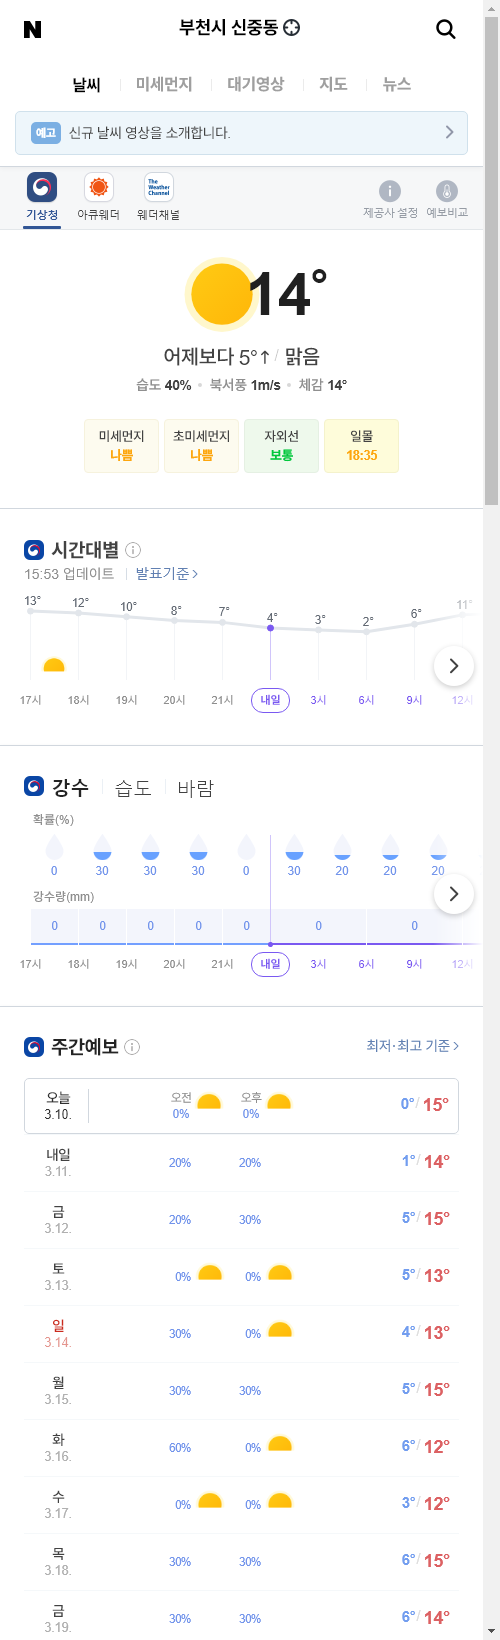
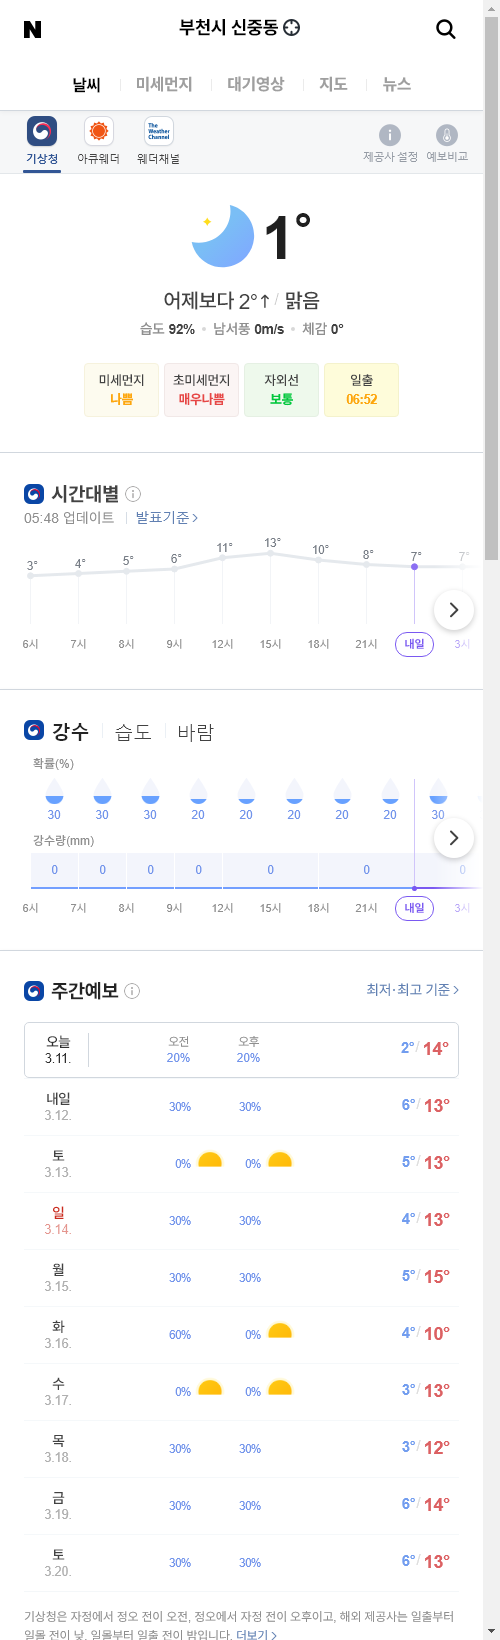
update result

diff --git a/README.md b/README.md
@@ -1,5 +1,5 @@
-##  2021-03-10 16:02:47   수요일 
-##### 날씨   -   어제보다 5° 높아요맑음  
+##  2021-03-11 05:55:03   목요일 
+##### 날씨   -   어제보다 2° 높아요맑음  
 <center><img src="../img/naver_weather_week.png"></center>
 ----
 ----
@@ -13,17 +13,17 @@
 ##### 세계
 <table border="1" bordercolor="blue" align = "center" >
 <tr align = "right" > <td>Item</td><td>Point</td><td>Diff</td><td>Rate</td><td>Buy</td><td>Sell</td><td>...</td>  </tr>
-<tr align = "right" > <td>DOW</td><td>31,832.74</td><td>30.3</td><td><font size="3" color="red" >0.1%</font></td><td><font size="3" color="black">0</font></td><td><font size="3" color="black">0</font></td><td>0</td>  </tr>
-<tr align = "right" > <td>NASDAQ</td><td>13,073.83</td><td>464.67</td><td><font size="3" color="red" >3.69%</font></td><td><font size="3" color="black">0</font></td><td><font size="3" color="black">0</font></td><td>0</td>  </tr>
-<tr align = "right" > <td>S&P</td><td>3,875.44</td><td>54.09</td><td><font size="3" color="red" >1.42%</font></td><td><font size="3" color="black">0</font></td><td><font size="3" color="black">0</font></td><td>0</td>  </tr>
-<tr align = "right" > <td>SHANHAI</td><td>3,360.88</td><td>1.59</td><td><font size="3" color="red" >0.05%</font></td><td><font size="3" color="black">0</font></td><td><font size="3" color="black">0</font></td><td>0</td>  </tr>
-<tr align = "right" > <td>INDIA</td><td>51,115.64</td><td>90.16</td><td><font size="3" color="red" >0.18%</font></td><td><font size="3" color="black">0</font></td><td><font size="3" color="black">0</font></td><td>0</td>  </tr>
+<tr align = "right" > <td>DOW</td><td>32,317.84</td><td>485.1</td><td><font size="3" color="red" >1.52%</font></td><td><font size="3" color="black">0</font></td><td><font size="3" color="black">0</font></td><td>0</td>  </tr>
+<tr align = "right" > <td>NASDAQ</td><td>13,096.29</td><td>22.46</td><td><font size="3" color="red" >0.17%</font></td><td><font size="3" color="black">0</font></td><td><font size="3" color="black">0</font></td><td>0</td>  </tr>
+<tr align = "right" > <td>S&P</td><td>3,903.64</td><td>28.2</td><td><font size="3" color="red" >0.73%</font></td><td><font size="3" color="black">0</font></td><td><font size="3" color="black">0</font></td><td>0</td>  </tr>
+<tr align = "right" > <td>SHANHAI</td><td>3,357.74</td><td>-1.55</td><td><font size="3" color="blue" >-0.05%</font></td><td><font size="3" color="black">0</font></td><td><font size="3" color="black">0</font></td><td>0</td>  </tr>
+<tr align = "right" > <td>INDIA</td><td>51,279.51</td><td>254.03</td><td><font size="3" color="red" >0.5%</font></td><td><font size="3" color="black">0</font></td><td><font size="3" color="black">0</font></td><td>0</td>  </tr>
 </table>
 ----
 ##### 시장
 <table border="1" bordercolor="blue" align = "center" >
 <tr align = "right" > <td>Item</td><td>Price</td><td>Diff</td><td>Rate</td><td>Buy</td><td>Sell</td><td>...</td>  </tr>
-<tr align = "right" > <td>USD</td><td>1,141.0</td><td>3.0</td><td><font size="3" color="red">0.26%</font></td><td><font size="3" color="black">1,110</font></td><td><font size="3" color="black">0</font></td><td>0</td>  </tr>
+<tr align = "right" > <td>USD</td><td>1,142.0</td><td>3.5</td><td><font size="3" color="red">0.31%</font></td><td><font size="3" color="black">1,110</font></td><td><font size="3" color="black">0</font></td><td>0</td>  </tr>
 <tr align = "right" > <td>WTI</td><td>64.01</td><td>-1.04</td><td><font size="3" color="blue">-1.59%</font></td><td><font size="3" color="black">29.0</font></td><td><font size="3" color="black">0</font></td><td>0</td>  </tr>
 <tr align = "right" > <td>GOLD</td><td>1,716.0</td><td>38.9</td><td><font size="3" color="red">2.31%</font></td><td><font size="3" color="black">0</font></td><td><font size="3" color="black">0</font></td><td>0</td>  </tr>
 </table>
